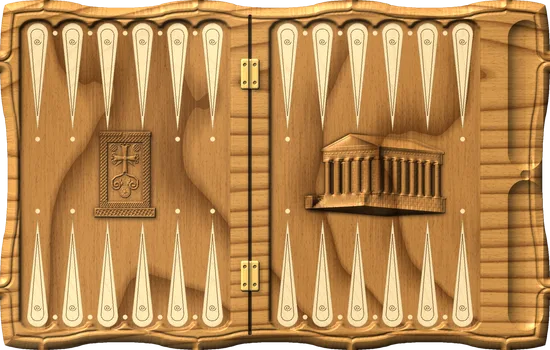
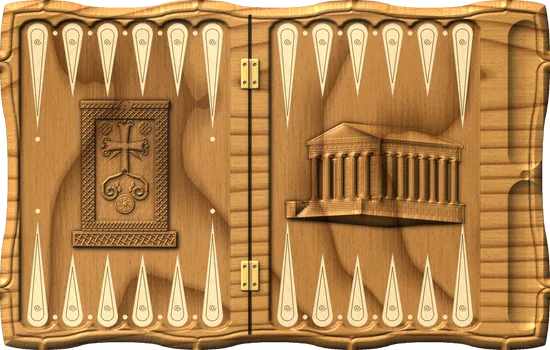
Доска «Армения»: короткие средние пункты и крупная резьба
- длинными оставлены только крайние пункты каждой шестёрки (1 и 6, 7 и 12, 13 и 18, 19 и 24), средние короче
- хачкар и Гарни увеличены на освободившееся место; пункты-вставки лежат поверх резьбы

Claude-Session: https://claude.ai/code/session_013vq6NREHT7txoK1nXmxN83

Changed region(s): [[0.4945, 0.1143, 0.8655, 0.8857], [0.0927, 0.1143, 0.34, 0.8857]]

diff --git a/index.html b/index.html
@@ -306,7 +306,7 @@ svg#board{position:absolute;inset:0;width:100%;height:100%;display:block}
 (()=>{
 'use strict';
 const $=id=>document.getElementById(id);
-const APP_VERSION='11';   // совпадает с VERSION в sw.js; добавляется к адресам картинок, чтобы новые доски не брались из старого кэша
+const APP_VERSION='12';   // совпадает с VERSION в sw.js; добавляется к адресам картинок, чтобы новые доски не брались из старого кэша
 const NS='http://www.w3.org/2000/svg';
 const f2=v=>(+v).toFixed(1);
 

diff --git a/sw.js b/sw.js
@@ -1,5 +1,5 @@
 // Офлайн-кэш: страница, доски, звуки и шрифты кэшируются при установке.
-const V = '11';                 // = APP_VERSION в index.html
+const V = '12';                 // = APP_VERSION в index.html
 const VERSION = 'nardy-v' + V;
 const SHELL = [
   './',

diff --git a/tools/render_boards.py b/tools/render_boards.py
@@ -761,13 +761,15 @@ def board_yerevan():
     burn = np.array((.42, .22, .08))
     drops, inner, swirls, dots = [], [], [], []
     for i in range(24):
-        x, top = ptX(i), is_top(i); tip = 262 if top else 438; d = 1 if top else -1
+        # длинные только крайние пункты каждой шестёрки, средние короче — посередине место под крупную резьбу
+        x, top = ptX(i), is_top(i); edge_pt = i % 6 in (0, 5); d = 1 if top else -1
+        tip = (262 if top else 438) if edge_pt else (196 if top else 504)
         drops.append(teardrop(x, top, tip, 42))
         inner.append(teardrop(x, top, tip - 30 * d, 26, 12) + [teardrop(x, top, tip - 30 * d, 26, 12)[0]])
         cy = 84 if top else 616
         sp = [(x + (7 - t * 5) * math.cos(t * 9), cy + (7 - t * 5) * math.sin(t * 9)) for t in np.linspace(0, 1.2, 50)]
         swirls.append(sp)
-        if abs(x - 250) > 80 and abs(x - 750) > 170: dots.append((x, tip + 16 * d))   # у резьбы точек нет
+        if edge_pt and x < 500: dots.append((x, tip + 16 * d))   # у коротких пунктов и у Гарни точек нет: там резьба
         if i % 6 != 5: dots.append((x + (35 if top else -35), 66 if top else 634))
     dm = polys(drops)
     alb = put(alb, dm, btex)
@@ -780,10 +782,11 @@ def board_yerevan():
     for (x, y) in dots: dmask = np.maximum(dmask, circle(x, y, 4.5))
     alb = put(alb, dmask, btex)
     # резьба прямо по полю, во всю высоту средней полосы: слева хачкар, справа храм Гарни в три четверти
-    for cx, make in ((250, lambda: khachkar(sc=1.75).result()), (750, lambda: garni_relief(316, 168, 1.6))):
+    for cx, make in ((250, lambda: khachkar(sc=3.0).result()), (750, lambda: garni_relief(392, 214, 1.5))):
         hl = make()
         nh, nw = hl.shape; y0, x0 = int(round(350 * S - nh / 2)), int(round(cx * S - nw / 2))
         win = (slice(y0, y0 + nh), slice(x0, x0 + nw))
+        hl = hl * (1 - dm[win])                               # пункты-вставки лежат поверх резьбы
         h[win] += hl
         # патина: в выборках и бороздах дерево темнее, как у морёной резьбы
         cav = np.clip((ndi.gaussian_filter(hl, 5) - hl) / 3.5, 0, 1) + np.clip(-hl / 6, 0, 1)
